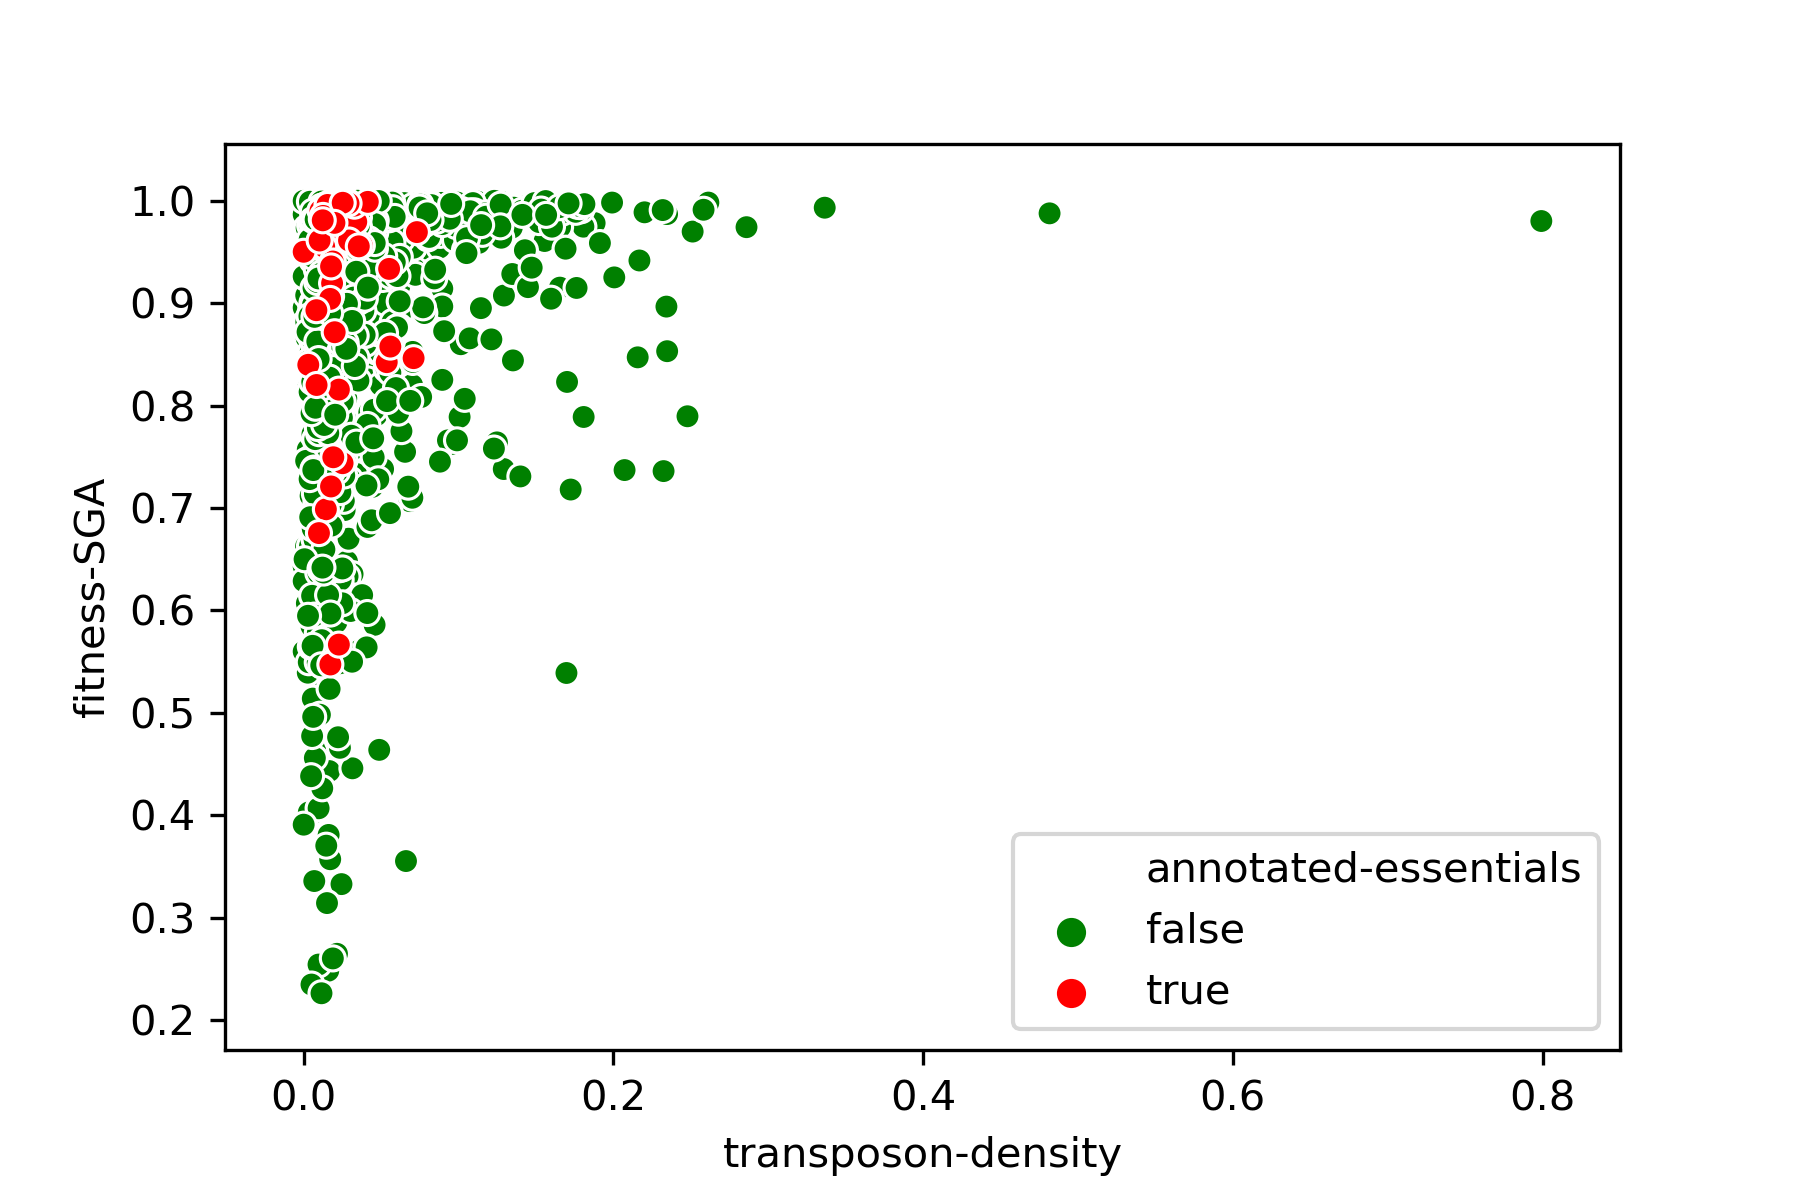
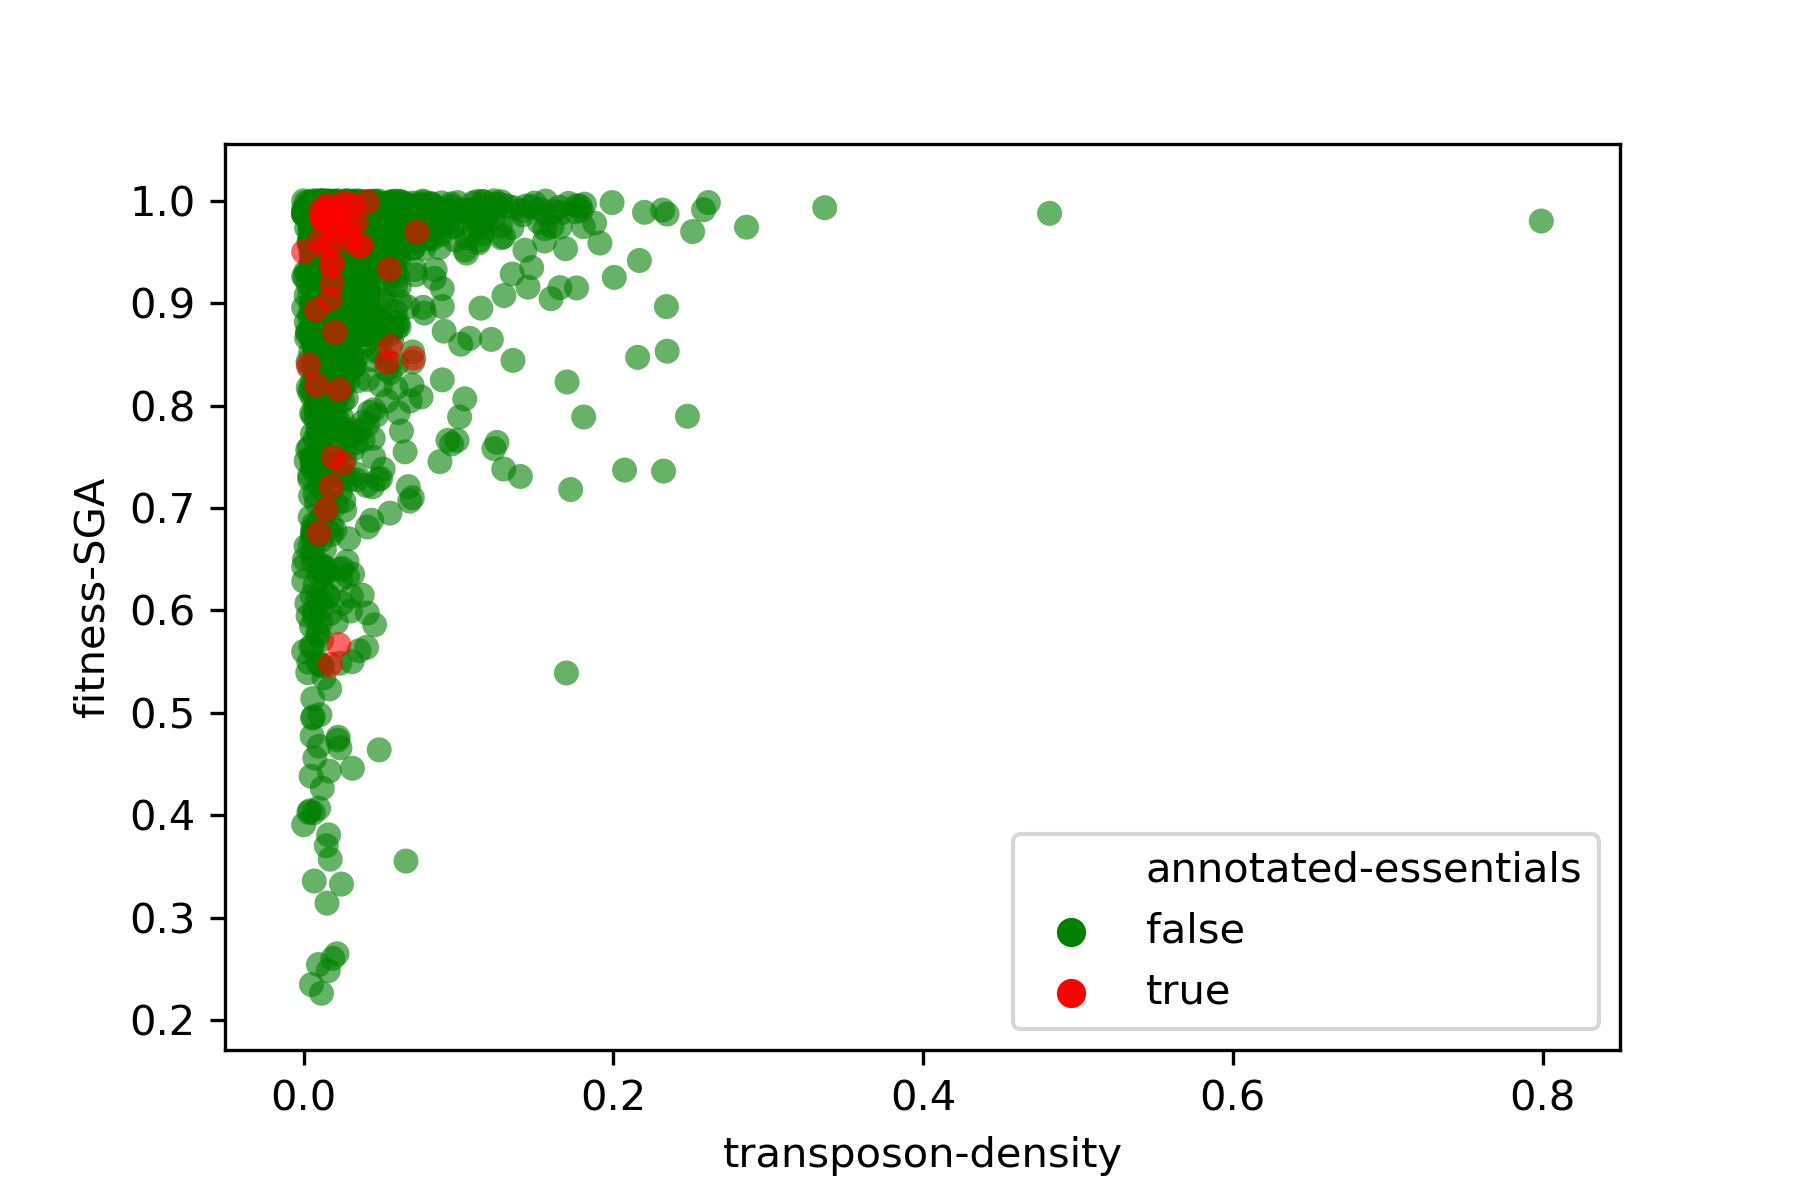
Small updates fitness vs transposon_density script

diff --git a/fitness_vs_transposon_density_essentiality_annotated.py b/fitness_vs_transposon_density_essentiality_annotated.py
@@ -112,7 +112,7 @@ print('Number of essential genes found = ',essential_counter)
 
 df_transposon_fitness_filtered_renamed = df_transposon_fitness_filtered.rename(columns={'essential-by-benoit': 'annotated-essentials'})
 df_transposon_fitness_filtered_ordered = df_transposon_fitness_filtered_renamed.sort_values(by=['annotated-essentials'], ascending=True)
-sns.scatterplot(x='transposon-density' ,y='fitness-SGA',hue='annotated-essentials', data=df_transposon_fitness_filtered_ordered,palette=['green','red'])
+sns.scatterplot(x='transposon-density' ,y='fitness-SGA',hue='annotated-essentials', data=df_transposon_fitness_filtered_ordered,palette=['green','red'],alpha=0.6, linewidth=0)
 #plt.savefig('transposon-density-vs-fitness-NxN-scatter.png',dpi=300,format='png',transparent=False)
 #sns.jointplot("transposon-density", "fitness-SGA", data=df_transposon_fitness_filtered, height=6, ratio=3, color='essential-by-benoit', xlim=[0,0.5],ylim=[0,1.0],kind='scatter',alpha=0.3)
 
